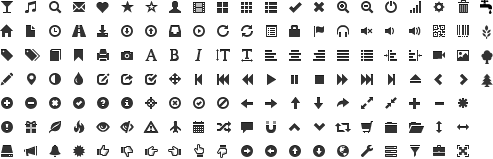
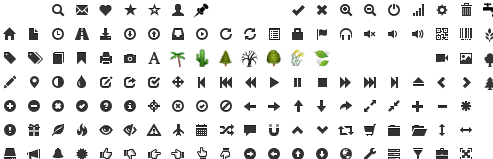
issue #18

diff --git a/public/js/cuchubo.js b/public/js/cuchubo.js
@@ -270,14 +270,14 @@ function finalAddObject(item) {
     markers[item._id] = marker;
     marker.on('mouseover',
               function() {
-                  if($('i.ghini-magnet.icon-thumbs-up').length !== 0)
+                  if($('i.ghini-magnet.icon-pushpin').length !== 0)
                       return;
                   marker._icon.id = marker_id;
                   set_alternative('#' + marker_id, 'awesome-marker-icon', 'orange');
               });
     marker.on('mouseout',
               function() {
-                  if($('i.ghini-magnet.icon-thumbs-up').length !== 0)
+                  if($('i.ghini-magnet.icon-pushpin').length !== 0)
                       return;
                   set_alternative('#' + marker_id, 'awesome-marker-icon', item.color);
               });
@@ -440,12 +440,12 @@ function present_item(item) {
         marker_names = active_garden_plants.map(function(x){return x.code;});
         row = $('<tr/>', {class: 'match_item'})
             .mouseenter(function(x) {
-                if($('i.ghini-magnet.icon-thumbs-up.ghini-frozen').length !== 0)
+                if($('i.ghini-magnet.icon-pushpin.ghini-frozen').length !== 0)
                     return;
                 set_alternative(x.currentTarget, 'ghini-highlighted', 'true');
                 markers_setcolor(marker_names, {color: 'orange'}); } )
             .mouseleave(function(x) {
-                if($('i.ghini-magnet.icon-thumbs-up.ghini-frozen').length !== 0)
+                if($('i.ghini-magnet.icon-pushpin.ghini-frozen').length !== 0)
                     return;
                 set_alternative(x.currentTarget, 'ghini-highlighted', 'false');
                 markers_setcolor(marker_names, {color: 'green'}); } )
@@ -453,19 +453,19 @@ function present_item(item) {
                 var magnet = $('tr.ghini-highlighted-true > td > i.ghini-magnet');
                 magnet.toggleClass('ghini-frozen');
                 if(magnet.hasClass('ghini-frozen')) {
-                    set_alternative(magnet, 'icon', 'thumbs-up');
+                    set_alternative(magnet, 'icon', 'pushpin');
                 } else {
                     set_alternative(magnet, 'icon', 'magnet');
                 } });
         td = $('<td/>', {class: 'binomial'})
             .mouseenter(function(x) {
-                if($('i.ghini-magnet.icon-thumbs-up').length === 0)
+                if($('i.ghini-magnet.icon-pushpin').length === 0)
                     set_alternative(x.currentTarget.children[2], 'icon', 'magnet');
             })
             .mouseleave(function(x) {
                 var magnet = x.currentTarget.children[2];
                 if( !$(magnet).hasClass('ghini-frozen'))
-                    set_alternative(magnet, 'icon', 'grass');
+                    set_alternative(magnet, 'icon', 'empty');
             });
         td.append($('<i/>', {class: 'icon-chevron-down', style: 'float: left;'})
                   .click(function(x) {
@@ -473,7 +473,7 @@ function present_item(item) {
                       return false;
                   }));
         td.append($('<div/>', {style: 'float: left; clear: both;', text: item.species_name}));
-        td.append($('<i/>', {class: 'ghini-magnet icon-grass'}));
+        td.append($('<i/>', {class: 'ghini-magnet icon-empty'}));
         row.append(td);
         row.append($('<td/>', {class: 'family', text: item.taxon.family}));
         result.push(row);
@@ -484,12 +484,12 @@ function present_item(item) {
                     window.getSelection().removeAllRanges();
                     return false; } )
                 .mouseenter(function(x) {
-                    if($('i.ghini-magnet.icon-thumbs-up').length !== 0)
+                    if($('i.ghini-magnet.icon-pushpin').length !== 0)
                         return;
                     set_alternative(x.currentTarget, 'ghini-highlighted', 'true');
                     markers_setcolor([x.currentTarget.children[0].textContent], {color: 'orange'}); } )
                 .mouseleave(function(x) {
-                    if($('i.ghini-magnet.icon-thumbs-up').length !== 0)
+                    if($('i.ghini-magnet.icon-pushpin').length !== 0)
                         return;
                     set_alternative(x.currentTarget, 'ghini-highlighted', 'false');
                     markers_setcolor([x.currentTarget.children[0].textContent], {color: 'green'}); } );

diff --git a/public/css/bootstrap.css b/public/css/bootstrap.css
@@ -2145,14 +2145,14 @@ table th[class*="span"],
 [class^="icon-"],
 [class*=" icon-"] {
   display: inline-block;
-  width: 14px;
-  height: 14px;
+  width: 20px;
+  height: 20px;
   margin-top: 1px;
   *margin-right: .3em;
-  line-height: 14px;
+  line-height: 16px;
   vertical-align: text-top;
   background-image: url("../img/glyphicons-halflings.png");
-  background-position: 14px 14px;
+  background-position: 16px 16px;
   background-repeat: no-repeat;
 }
 
@@ -2174,8 +2174,8 @@ table th[class*="span"],
   background-image: url("../img/glyphicons-halflings-white.png");
 }
 
-.icon-glass {
-  background-position: 0      0;
+.icon-empty {
+  background-position: 0 0;
 }
 
 .icon-music {
@@ -2206,7 +2206,7 @@ table th[class*="span"],
   background-position: -168px 0;
 }
 
-.icon-film {
+.icon-pushpin {
   background-position: -192px 0;
 }
 
@@ -2362,39 +2362,39 @@ table th[class*="span"],
   background-position: -144px -48px;
 }
 
-.icon-bold {
-  background-position: -167px -48px;
+.icon-palm-tree {
+  background-position: -168px -48px;
 }
 
-.icon-italic {
+.icon-cactus {
   background-position: -192px -48px;
 }
 
-.icon-text-height {
+.icon-tree-conifer {
   background-position: -216px -48px;
 }
 
-.icon-text-width {
+.icon-tree-dead {
   background-position: -240px -48px;
 }
 
-.icon-align-left {
+.icon-tree-evergreen {
   background-position: -264px -48px;
 }
 
-.icon-align-center {
+.icon-grass {
   background-position: -288px -48px;
 }
 
-.icon-align-right {
+.icon-tree-deciduous {
   background-position: -312px -48px;
 }
 
-.icon-align-justify {
+.icon-banana-tree {
   background-position: -336px -48px;
 }
 
-.icon-list {
+.icon-fern {
   background-position: -360px -48px;
 }
 
@@ -2738,30 +2738,6 @@ table th[class*="span"],
 
 .icon-faucet {
   background-position: -480px 0;
-}
-
-.icon-grain {
-  background-position: -480px -24px;
-}
-
-.icon-tree-deciduous {
-  background-position: -480px -48px;
-}
-
-.icon-tree-conifer {
-  background-position: -480px -72px;
-}
-
-.icon-tree-palm {
-  background-position: -480px -96px;
-}
-
-.icon-tree-banana {
-  background-position: -480px -120px;
-}
-
-.icon-grass {
-  background-position: -480px -144px;
 }
 
 .dropup,

diff --git a/web.js b/web.js
@@ -168,7 +168,7 @@ io.sockets.on('connection', function (socket) {
                                 family: "$taxon.family",
                                 draggable: {$literal: false},
                                 color: {$literal: "green"},
-                                icon: {$literal: "tree-deciduous"}}},
+                                icon: {$literal: "tree-evergreen"}}},
                     {}
                 );
                 // Lets iterate on the result.

diff --git a/public/css/leaflet.awesome-markers.css b/public/css/leaflet.awesome-markers.css
@@ -37,7 +37,7 @@ Version: 1.0
 
 .awesome-marker i {
   color: #333;
-  margin-top: 10px;
+  margin-top: 6px;
   display: inline-block;
   font-size: 14px;
 }
